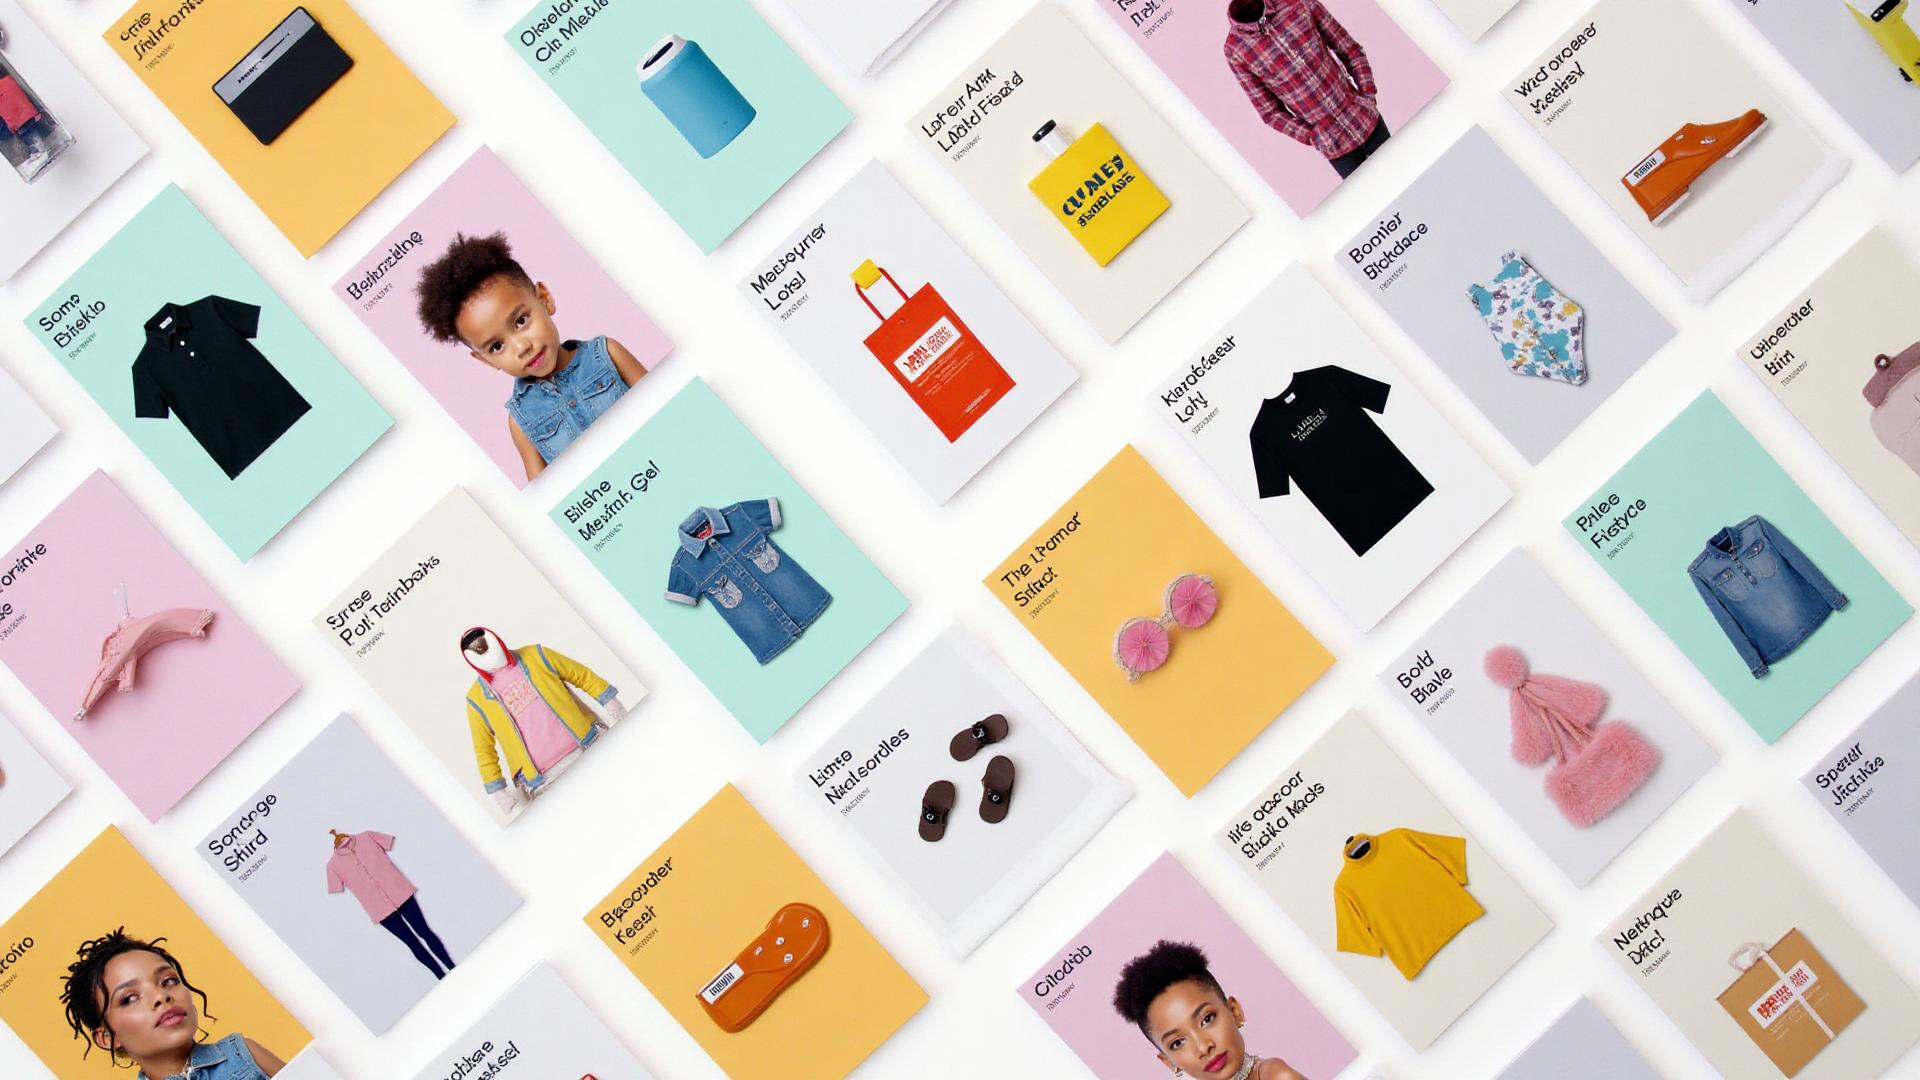
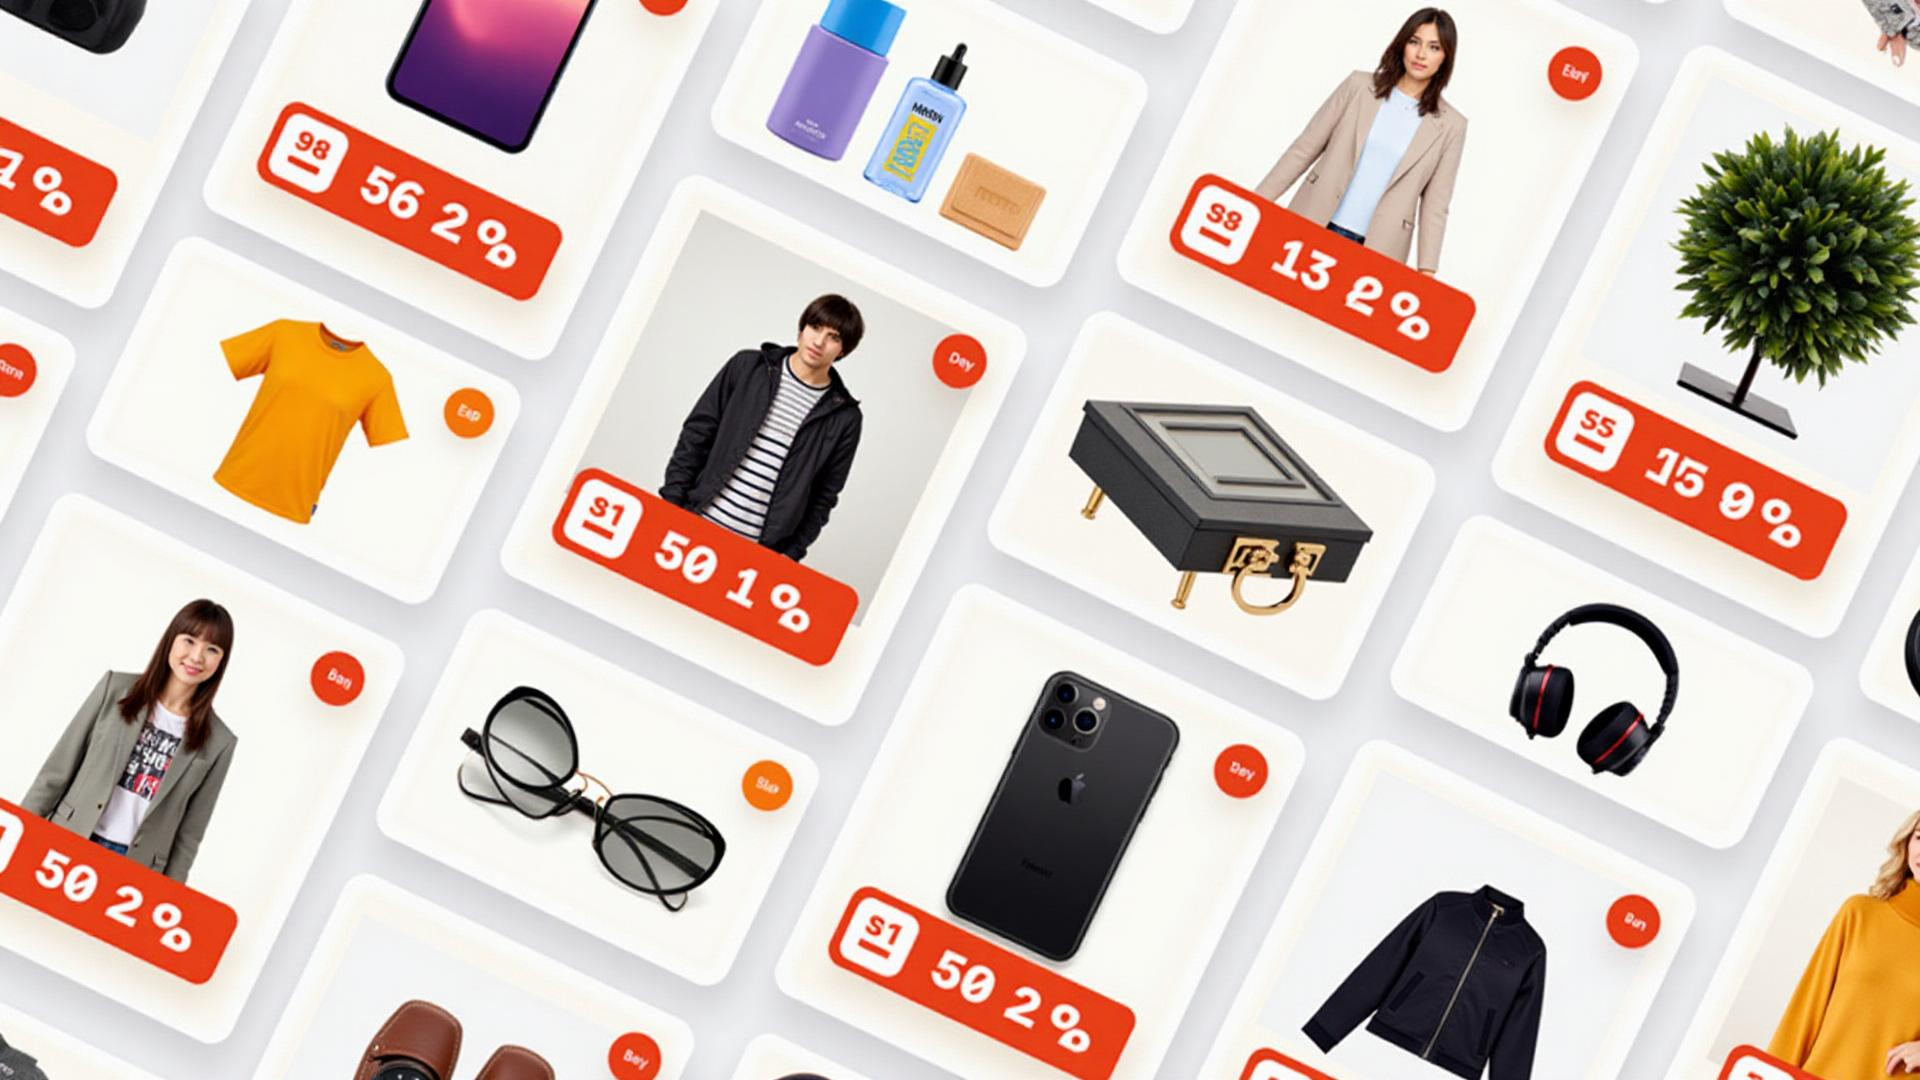
Refactor: Integrate marketplace image into Featured Products

diff --git a/src/components/FeaturedProductsGrid.tsx b/src/components/FeaturedProductsGrid.tsx
@@ -3,27 +3,27 @@ import marketplaceShowcase from "@/assets/marketplace-showcase.jpg";
 
 export const FeaturedProductsGrid = () => {
   return (
-    <section className="mb-12 animate-fade-in">
-      <div className="bg-gradient-to-br from-muted/30 via-muted/10 to-transparent p-6 sm:p-8 rounded-2xl shadow-sm border border-border/30">
-        <div className="flex items-center gap-4 mb-6">
-          <div className="w-12 h-12 sm:w-14 sm:h-14 rounded-2xl bg-gradient-to-br from-amber-400 via-orange-500 to-pink-500 flex items-center justify-center shadow-xl animate-float">
-            <Sparkles className="w-6 h-6 sm:w-7 sm:h-7 text-white" />
+    <section className="mb-8 sm:mb-12 animate-fade-in">
+      <div className="bg-gradient-to-br from-amber-50/50 via-orange-50/30 to-pink-50/20 dark:from-amber-950/20 dark:via-orange-950/10 dark:to-pink-950/10 p-4 sm:p-6 md:p-8 rounded-2xl shadow-lg border border-amber-200/30 dark:border-amber-800/30">
+        <div className="flex items-center gap-3 sm:gap-4 mb-4 sm:mb-6">
+          <div className="w-10 h-10 sm:w-12 sm:h-12 md:w-14 md:h-14 rounded-2xl bg-gradient-to-br from-amber-400 via-orange-500 to-pink-500 flex items-center justify-center shadow-xl animate-pulse">
+            <Sparkles className="w-5 h-5 sm:w-6 sm:h-6 md:w-7 md:h-7 text-white" />
           </div>
           <div className="flex-1">
-            <h2 className="text-2xl sm:text-3xl md:text-4xl font-extrabold bg-gradient-to-r from-amber-600 via-orange-600 to-pink-600 bg-clip-text text-transparent">
+            <h2 className="text-xl sm:text-2xl md:text-3xl lg:text-4xl font-extrabold bg-gradient-to-r from-amber-600 via-orange-600 to-pink-600 bg-clip-text text-transparent">
               ✨ PRODUITS VEDETTES
             </h2>
-            <p className="text-sm sm:text-base text-muted-foreground mt-1">
+            <p className="text-xs sm:text-sm md:text-base text-muted-foreground mt-0.5 sm:mt-1">
               Découvrez nos boutiques partenaires • Marketplace dynamique
             </p>
           </div>
         </div>
         
-        <div className="relative w-full overflow-hidden rounded-2xl shadow-lg">
+        <div className="relative w-full overflow-hidden rounded-xl sm:rounded-2xl shadow-2xl">
           <img 
             src={marketplaceShowcase} 
-            alt="Marketplace Djassa - Vitrine de produits"
-            className="w-full h-auto object-cover transition-transform duration-500 hover:scale-105"
+            alt="Marketplace Djassa - Vitrine de produits variés avec offres spéciales"
+            className="w-full h-auto object-cover transition-transform duration-700 hover:scale-[1.02] cursor-pointer"
             loading="lazy"
           />
         </div>

diff --git a/src/pages/Index.tsx b/src/pages/Index.tsx
@@ -382,6 +382,9 @@ const Index = () => {
           <PopularCategories />
         </section>
 
+        {/* Produits Vedettes - Image Marketplace */}
+        <FeaturedProductsGrid />
+
         {/* Produits Recommandés - Grille */}
         <section className="mb-6 sm:mb-8 animate-slide-up">
           <div className="flex items-center justify-between mb-3 sm:mb-4 px-1">
